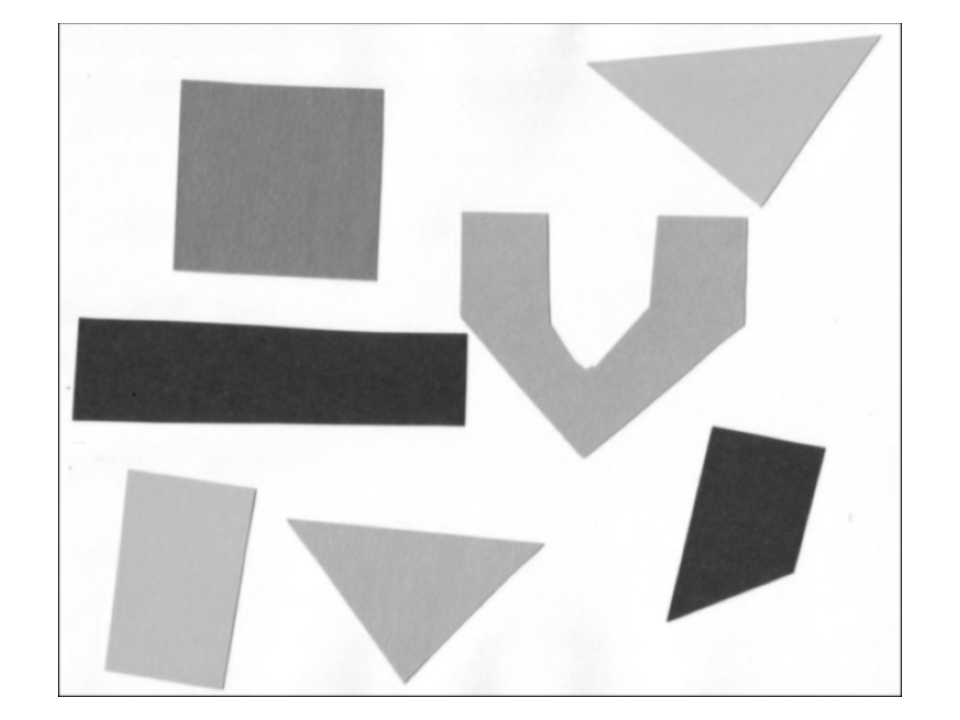
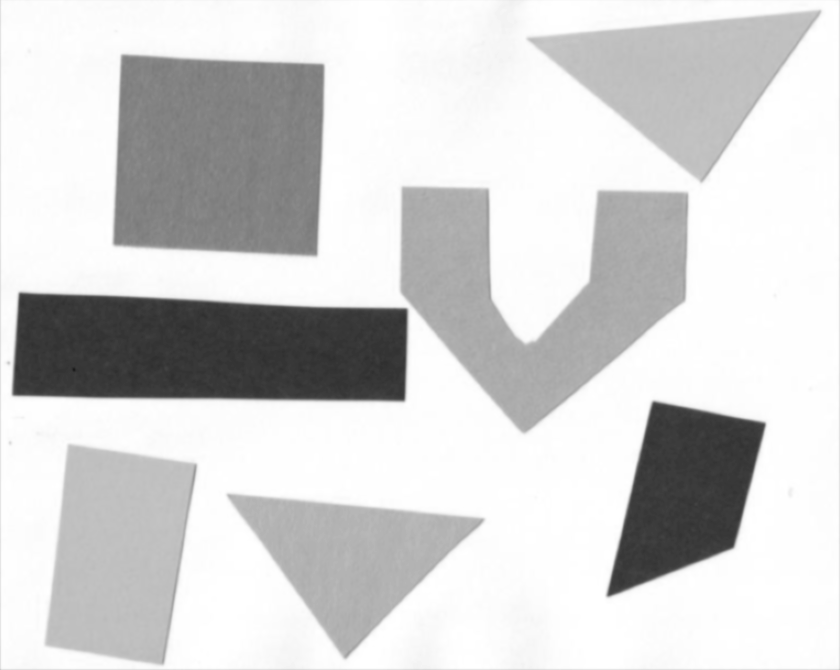
07-thresholding: Address /issues/158 Remove black border from images and use .image-with-shadow class

diff --git a/episodes/07-thresholding.md b/episodes/07-thresholding.md
@@ -47,8 +47,7 @@ interested in.
 ## Simple thresholding
 
 Consider the image `fig/06-junk-before.jpg` with a series of
-crudely cut shapes set against a white background. The black outline
-around the image is not part of the image.
+crudely cut shapes set against a white background.
 
 ~~~
 import numpy as np
@@ -60,7 +59,7 @@ import skimage.filters
 %matplotlib widget
 
 # load the image
-image = skimage.io.imread("../../fig/06-junk-before.jpg")
+image = skimage.io.imread("../../fig/06-junk-before.png")
 
 fig, ax = plt.subplots()
 plt.imshow(image)
@@ -68,7 +67,8 @@ plt.show()
 ~~~
 {: .language-python}
 
-![Image with geometric shapes on white background](../fig/06-junk-before.jpg)
+![Image with geometric shapes on white background](../fig/06-junk-before.png)
+{: .image-with-shadow}
 
 Now suppose we want to select only the shapes from the image. In other words,
 we want to leave the pixels belonging to the shapes "on," while turning the
@@ -95,6 +95,7 @@ plt.show()
 {: .language-python}
 
 ![Grayscale image of the geometric shapes](../../fig/06-junk-grayscale.png)
+{: .image-with-shadow}
 
 Next, we would like to apply the threshold `t` such that pixels with grayscale values on one side of `t` will be turned "on", while pixels with grayscale values on the other side will be turned "off". How might we do that? Remember that grayscale images contain pixel values in the range from 0 to 1, so we are looking for a threshold `t` in the closed range [0.0, 1.0]. We see in the image that the geometric shapes are "darker" than the white background but there is also some light gray noise on the background. One way to determine a "good" value for `t` is to look at the grayscale histogram of the image and try to identify what grayscale ranges correspond to the shapes in the image or the background.
 
